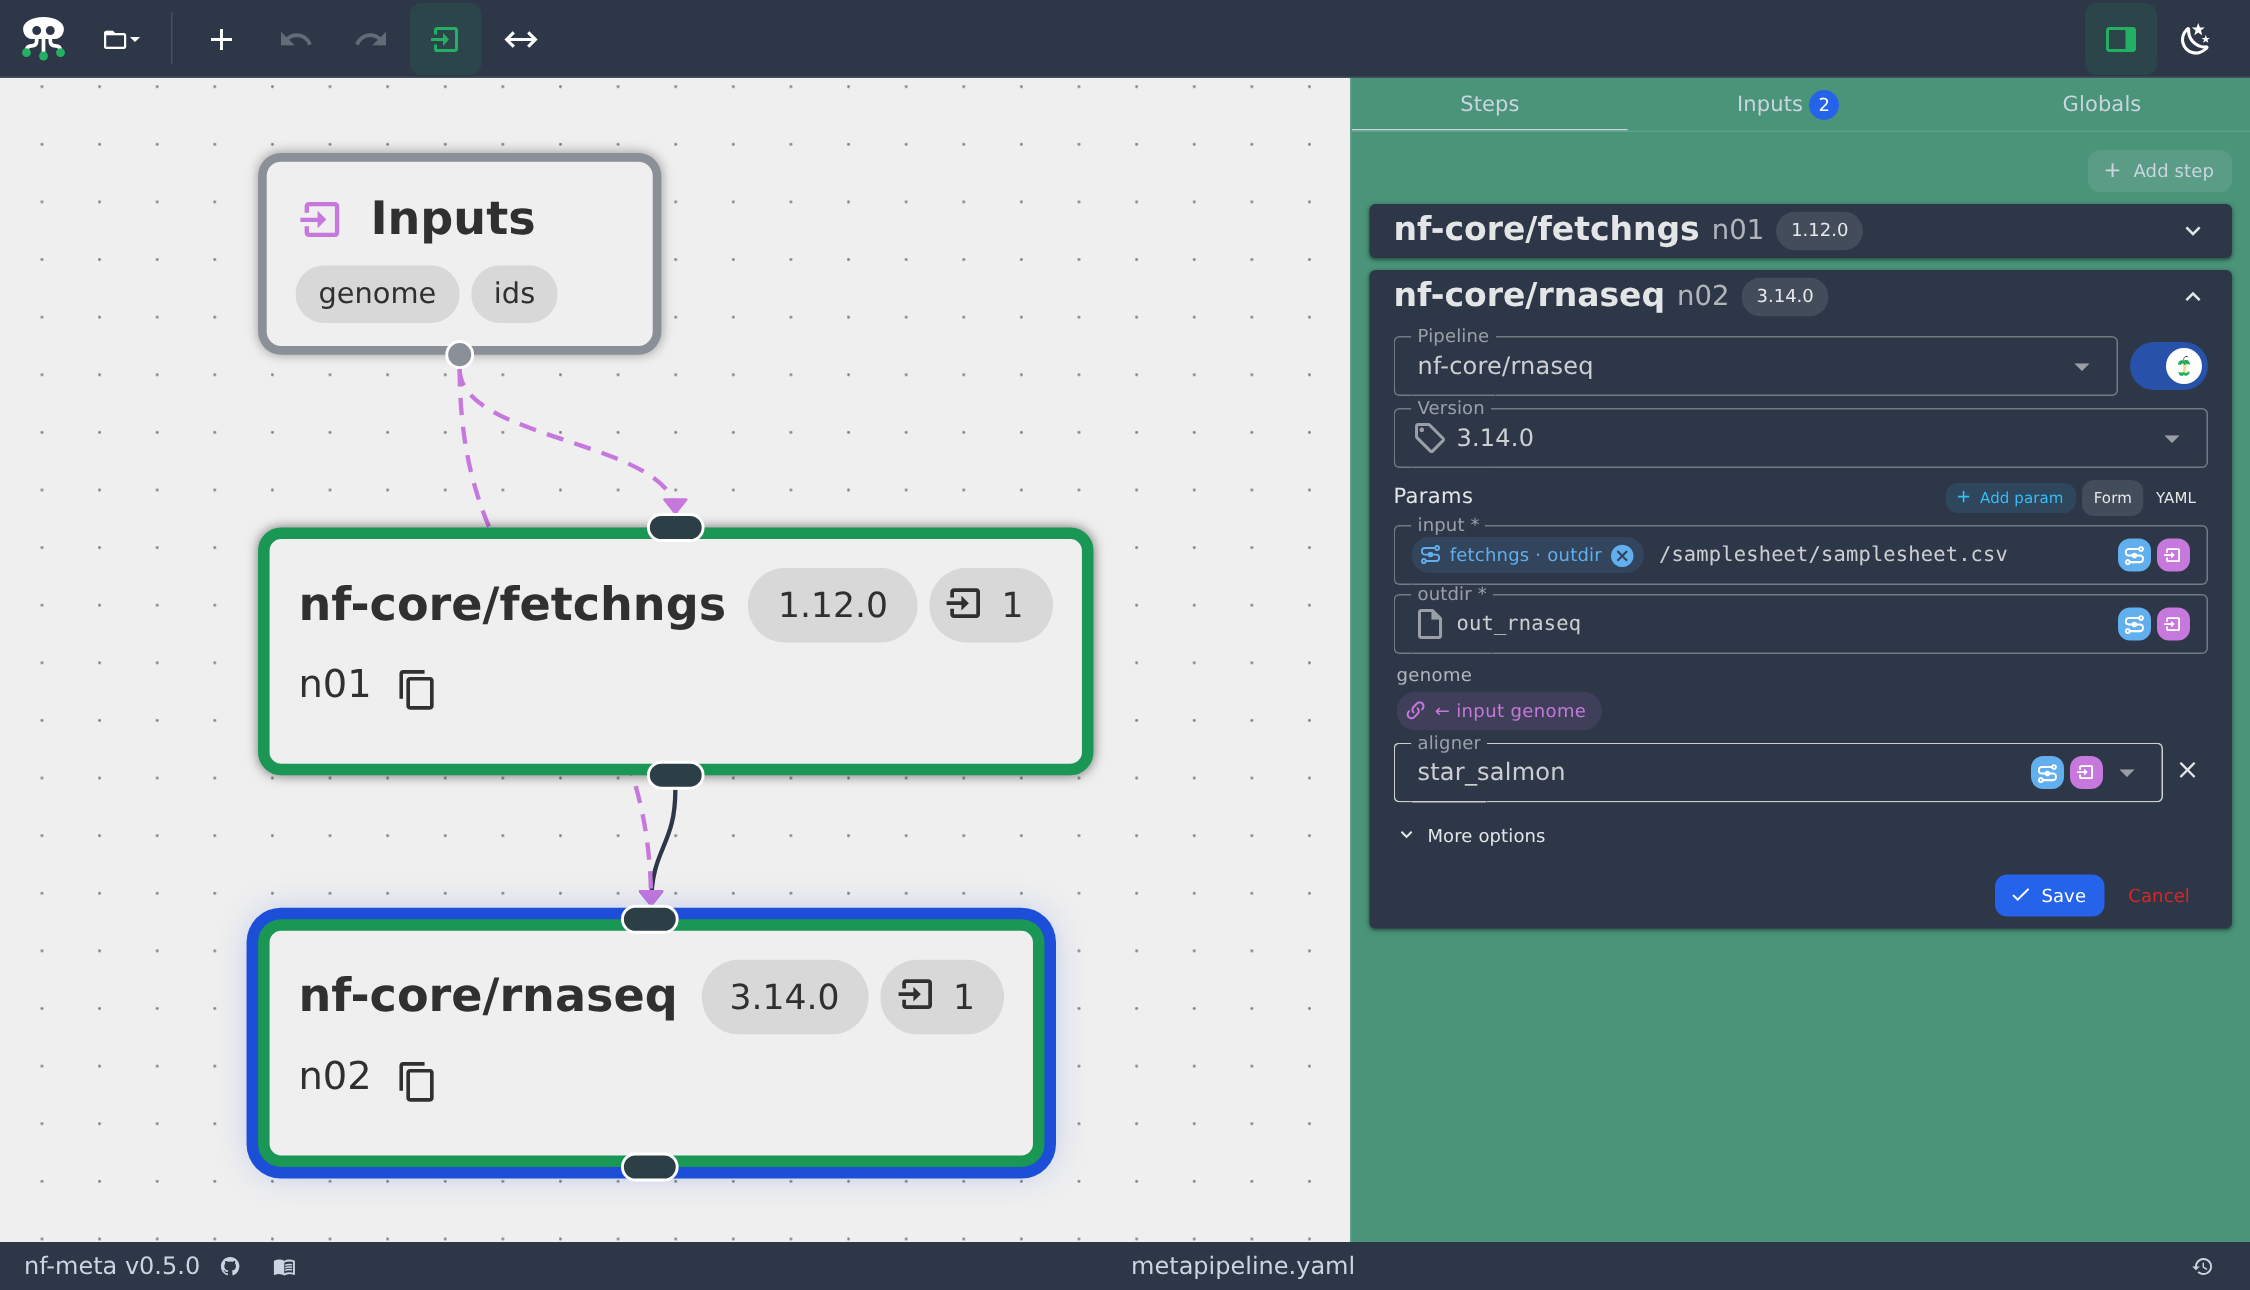
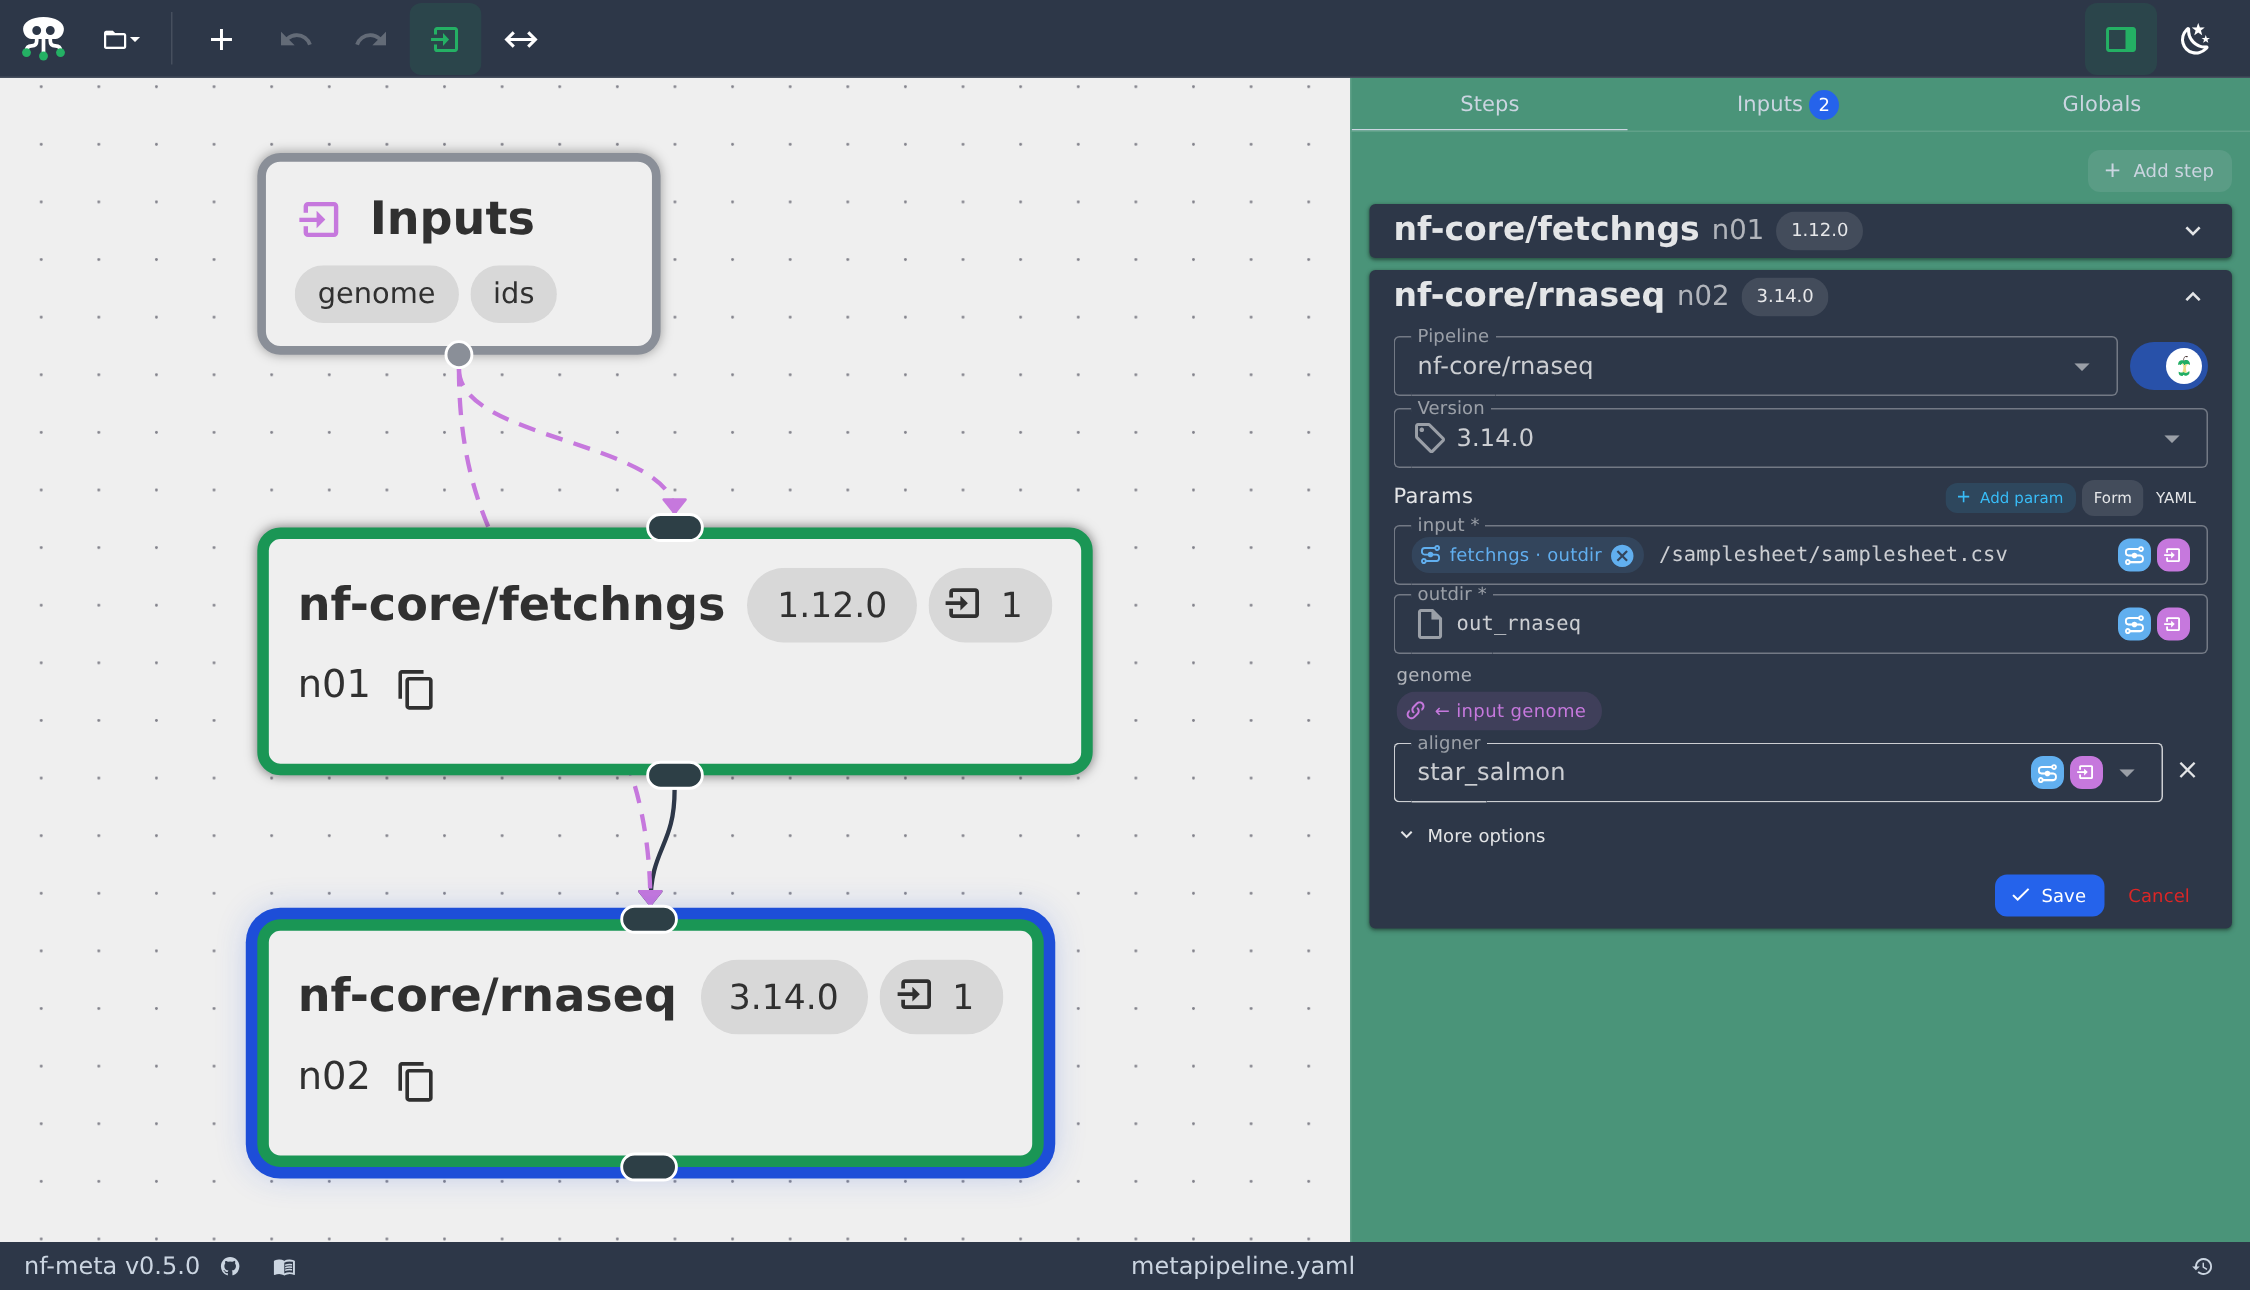
add a script for the editor screenshots

Changed region(s): [[0.1867, 0.155, 0.2178, 0.186], [0.1556, 0.2171, 0.1867, 0.2481]]

diff --git a/scripts/editor_screenshots.py b/scripts/editor_screenshots.py
@@ -1,0 +1,107 @@
+"""Take the editor screenshots used by the docs and the README.
+
+Starts `nf-meta editor` on `assets/metapipeline.yaml` and saves the main view (the rnaseq step
+open for editing) in the dark and the light theme:
+
+    docs/editor/nf-meta-screenshot.png        assets/nf-meta-screenshot.png
+    docs/editor/nf-meta-screenshot-light.png  assets/nf-meta-screenshot-light.png
+
+Run from anywhere (needs the network, for the nf-core catalog and schemas):
+
+    uv run --with playwright playwright install chromium   # once
+    uv run --with playwright python scripts/editor_screenshots.py
+"""
+
+import os
+import queue
+import re
+import shutil
+import socket
+import subprocess
+import sys
+import tempfile
+import threading
+from pathlib import Path
+
+from playwright.sync_api import sync_playwright
+
+ROOT = Path(__file__).resolve().parents[1]
+CONFIG = ROOT / "assets" / "metapipeline.yaml"
+TARGETS = [ROOT / "docs" / "editor", ROOT / "assets"]
+THEMES = {"graphite": "nf-meta-screenshot.png", "light": "nf-meta-screenshot-light.png"}
+VIEWPORT = {"width": 1500, "height": 860}
+TIMEOUT_MS = 60_000
+
+
+def free_port() -> int:
+    with socket.socket() as s:
+        s.bind(("127.0.0.1", 0))
+        return s.getsockname()[1]
+
+
+def start_editor(state_dir: str) -> tuple[subprocess.Popen, str]:
+    """Start the editor and return it with the link it prints."""
+    env = {**os.environ, "XDG_STATE_HOME": state_dir}
+    env.pop("NF_META_DEVMODE", None)
+    cmd = [sys.executable, "-m", "nf_meta", "editor", "--port", str(free_port())]
+    cmd += ["--no-browser", "--no-redirect-file", CONFIG.name]  # by name: the footer shows it
+    proc = subprocess.Popen(
+        cmd, cwd=CONFIG.parent, env=env, stdout=subprocess.PIPE, stderr=subprocess.STDOUT, text=True
+    )
+    lines: queue.Queue[str] = queue.Queue()
+    threading.Thread(target=lambda: [lines.put(line) for line in proc.stdout], daemon=True).start()  # type: ignore[union-attr]
+    output = []
+    while True:
+        try:
+            line = lines.get(timeout=TIMEOUT_MS / 1000)
+        except queue.Empty:
+            proc.kill()
+            sys.exit("The editor didn't print its link in time:\n" + "".join(output))
+        output.append(line)
+        if match := re.search(r"Editor running at: (\S+)", line):
+            return proc, match.group(1)
+        if proc.poll() is not None:
+            sys.exit("The editor stopped:\n" + "".join(output))
+
+
+def shoot(page_url: str, theme: str, path: Path, browser) -> None:
+    context = browser.new_context(viewport=VIEWPORT, device_scale_factor=1.5)
+    context.set_default_timeout(TIMEOUT_MS)
+    context.add_init_script(f"localStorage.setItem('theme', '{theme}')")
+    page = context.new_page()
+    page.goto(page_url)
+    page.locator("[title='Show or hide the sidebar']").click()
+    steps = page.locator(".v-window-item--active")
+    steps.locator(".node-title", has_text="nf-core/rnaseq").click()
+    steps.get_by_role("button", name="Edit").first.click()
+    # the params form is built from the pipeline's schema, fetched from GitHub
+    steps.locator(".v-text-field", has_text="outdir").first.wait_for()
+    page.wait_for_load_state("networkidle")
+    page.wait_for_timeout(500)  # let the sidebar's transitions finish
+    page.screenshot(path=path)
+    context.close()
+
+
+def main() -> None:
+    with tempfile.TemporaryDirectory() as state_dir, tempfile.TemporaryDirectory() as shots:
+        proc, url = start_editor(state_dir)
+        try:
+            with sync_playwright() as pw:
+                browser = pw.chromium.launch()
+                for theme, name in THEMES.items():
+                    shoot(url, theme, Path(shots) / name, browser)
+                browser.close()
+        finally:
+            proc.terminate()
+            try:
+                proc.wait(timeout=10)
+            except subprocess.TimeoutExpired:
+                proc.kill()
+        for name in THEMES.values():
+            for target in TARGETS:
+                shutil.copy(Path(shots) / name, target / name)
+                print(f"wrote {(target / name).relative_to(ROOT)}")
+
+
+if __name__ == "__main__":
+    main()
